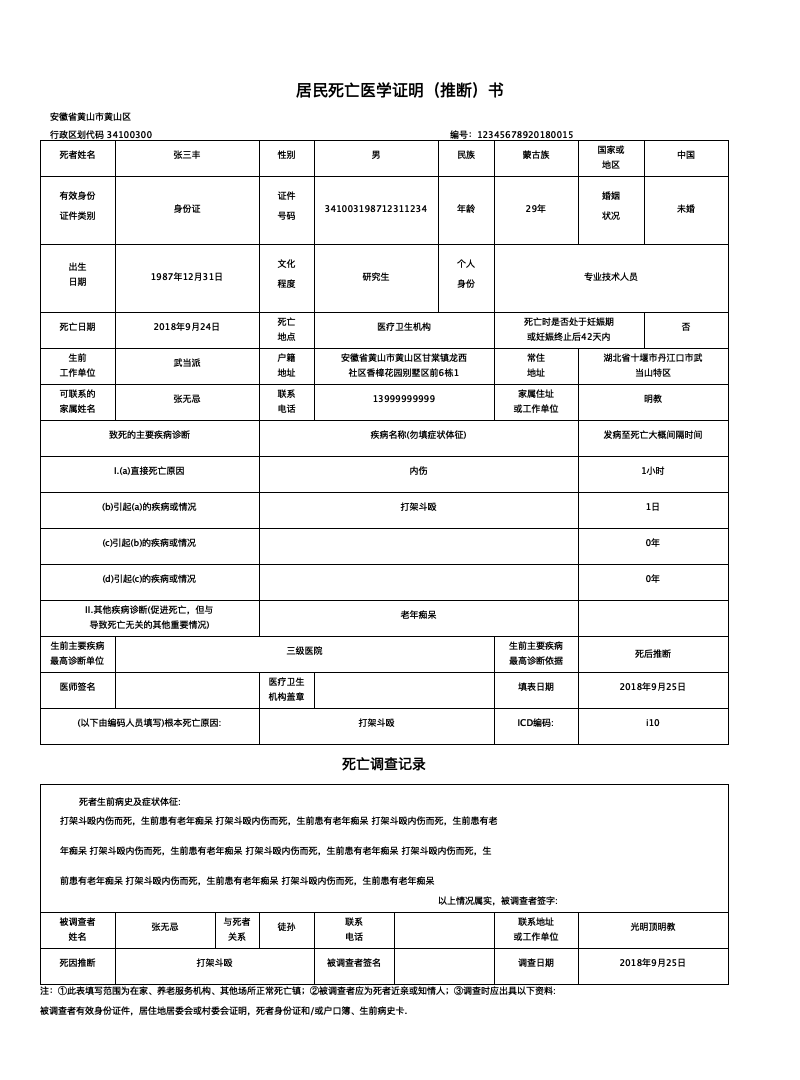
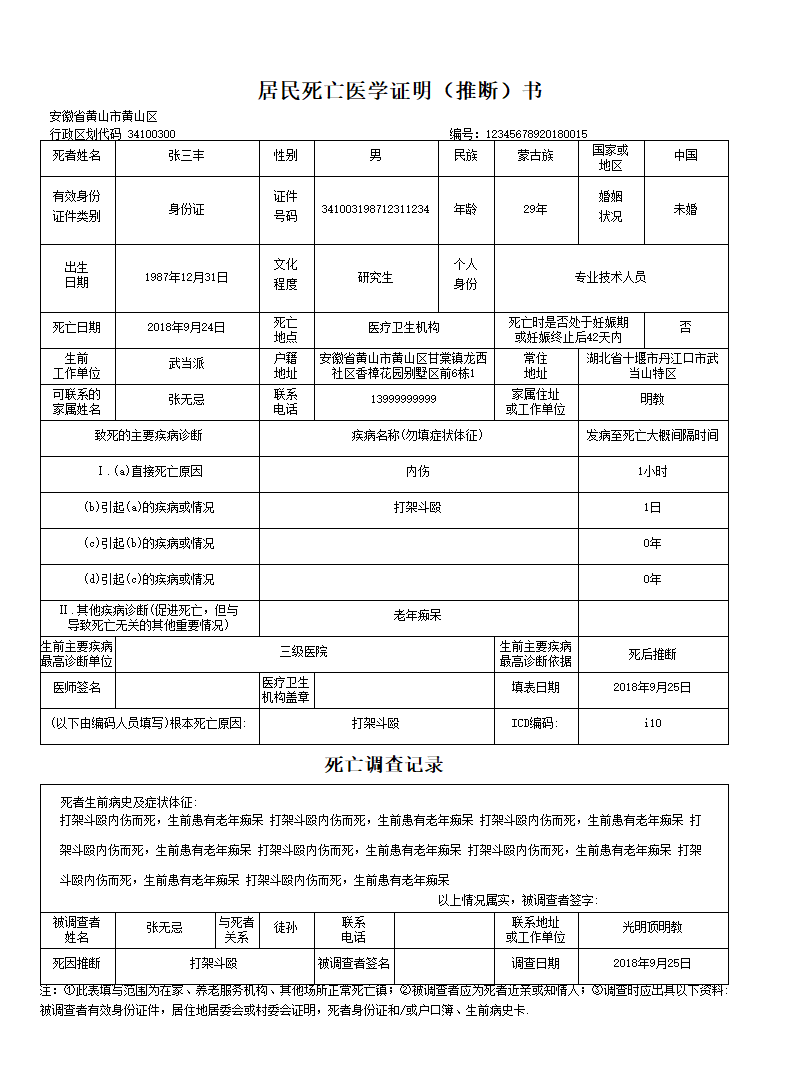
'v0.0.102216'

diff --git a/printwindow.py b/printwindow.py
@@ -6,7 +6,7 @@ from PyQt5.QtGui import *
 from PyQt5.QtCore import *
 from PyQt5.QtWidgets import *
 from PyQt5.QtWebEngineWidgets import *
-from PyQt5.QtPrintSupport import QPrinter, QPrintDialog
+from PyQt5.QtPrintSupport import QPrinter, QPrintDialog,QPrintPreviewDialog
 from PyQt5 import QtWidgets
 from data import *
 import address_dic
@@ -17,9 +17,11 @@ class PrintWindow(QWidget):
 
     def __init__(self, id):
         super(PrintWindow, self).__init__()
-        self.setFixedSize(810, 700)
+        # self.setFixedSize(810, 700)
+        self.resize(810, 700)
         self.printer = QPrinter()
         self.printer.setPageSize(QPrinter.A4)
+        self.img = QImage()
         self.id = id
         self.set_ui()
 
@@ -75,18 +77,12 @@ class PrintWindow(QWidget):
         self.setLayout(self.layout3)
 
     def print_page1(self):
-        self.a.show()
-        self.a.close()
-        self.printer = QPrinter()
-        dialog = QPrintDialog(self.printer, self)
-        if dialog.exec_() != QDialog.Accepted:
-            return
-
+        pass
 
     def print_page1_data(self):
         # self.printer.setOutputFormat(QPrinter.PdfFormat)
         # self.printer.setOutputFileName('a.pdf')
-        pass 
+        pass
 
 
     def close_page(self):
@@ -99,7 +95,6 @@ class PrintWindow(QWidget):
         self.a = SavePage1(self.id)
         self.a.show()
         # self.a.close()
-        # file, ok = QFileDialog.getSaveFileName(self,'文件保存','./','png files (*.png)')
 
 class PaintArea(QWidget):
 
@@ -107,15 +102,17 @@ class PaintArea(QWidget):
         super(PaintArea, self).__init__()
         self.id= str(id)
         self.setFixedSize(760, 1080)
+        self.printer = QPrinter()
 
     def paintEvent(self, event):
         # map = QPixmap(800, 1080)
         # map.fill(Qt.white)
+        # qp = QPainter(map)
         qp = QPainter(self)
         # qp.begin(self)
         self.drawPic(event, qp)
         # qp.end()
-        # map.save('1.png','PNG')
+        # map.save('a.png','PNG')
 
     def drawPic(self,event, qp):
         self.db = DataBase()
@@ -360,7 +357,7 @@ class PaintArea(QWidget):
         qp.drawText(40,x,180,36,Qt.AlignCenter,'死者生前病史及症状体征:')
         research_len = len(rslt_list[36])
         for i in range(research_len%55):
-            qp.drawText(60,x+30*(1+i),700,36,Qt.AlignLeft,rslt_list[36][i*50:(i+1)*50])
+            qp.drawText(60,x+30*(1+i),700,36,Qt.AlignLeft,rslt_list[36][i*55:(i+1)*55])
         qp.drawText(438,x+110,250,36,Qt.AlignLeft,'以上情况属实，被调查者签字:')
 
         x += 128

diff --git a/query.py b/query.py
@@ -1,21 +1,11 @@
 #/usr/bin/env python
 #coding: utf-8
 
-from PyQt5.QtGui import *
-from PyQt5.QtCore import *
-from PyQt5.QtWidgets import *
-from PyQt5.QtWebEngineWidgets import *
-from PyQt5 import QtWidgets
-import datetime
-from data import *
+import login
 from calendar import *
 from printwindow import *
 from math import ceil
 import address_dic
-import login
-from data import *
-from query import *
-from regist import *
 
 class QueryWindow(QWidget):
 
@@ -394,7 +384,8 @@ class QueryWindow(QWidget):
 
     def close_window(self):
         self.close()
-        self.listwindow = login.ListWindow(self.user)
+        from login import ListWindow
+        self.listwindow = ListWindow(self.user)
         self.listwindow.show()
 
     def to_next_page(self):

diff --git a/regist.py b/regist.py
@@ -1,19 +1,11 @@
 #/usr/bin/env python
 #coding: utf-8
 
-from PyQt5.QtGui import *
-from PyQt5.QtCore import *
-from PyQt5.QtWidgets import *
-from PyQt5.QtWebEngineWidgets import *
-from PyQt5 import QtWidgets
-import datetime
+import login
 from address import *
 from calendar import *
-from data import *
 import address_dic
-import login
-from query import *
-from regist import *
+from data import *
 
 class Regist(QWidget):
 
@@ -437,6 +429,7 @@ class Regist(QWidget):
 
     def back_click(self):
         self.close()
+        from login import ListWindow
         self.listwindow = ListWindow(self.user)
         self.listwindow.show()
 

diff --git a/data.py b/data.py
@@ -212,7 +212,7 @@ class Choice_Dic():
         self.death_location_list = ['医疗卫生机构','来院途中','家中','养老服务机构','其他场所','不详']
         self.diagnost_department_list = ['三级医院','二级医院','乡镇卫生院或社区卫生服务中心','村卫生室','其他医疗卫生机构','未就诊']
         self.diagnost_method_list = ['尸检','病理','手术','临床+理化','临床','死后推断','不详']
-        self.age_unit = ['年','月','日','小时']
+        self.age_unit = ['','年','月','日','小时']
 
 
 

diff --git a/login.py b/login.py
@@ -105,6 +105,7 @@ class ListWindow(QWidget):
 
     def query_window(self):
         self.close()
+        from query import QueryWindow
         self.window = QueryWindow(self.user)
         self.window.show()
 
